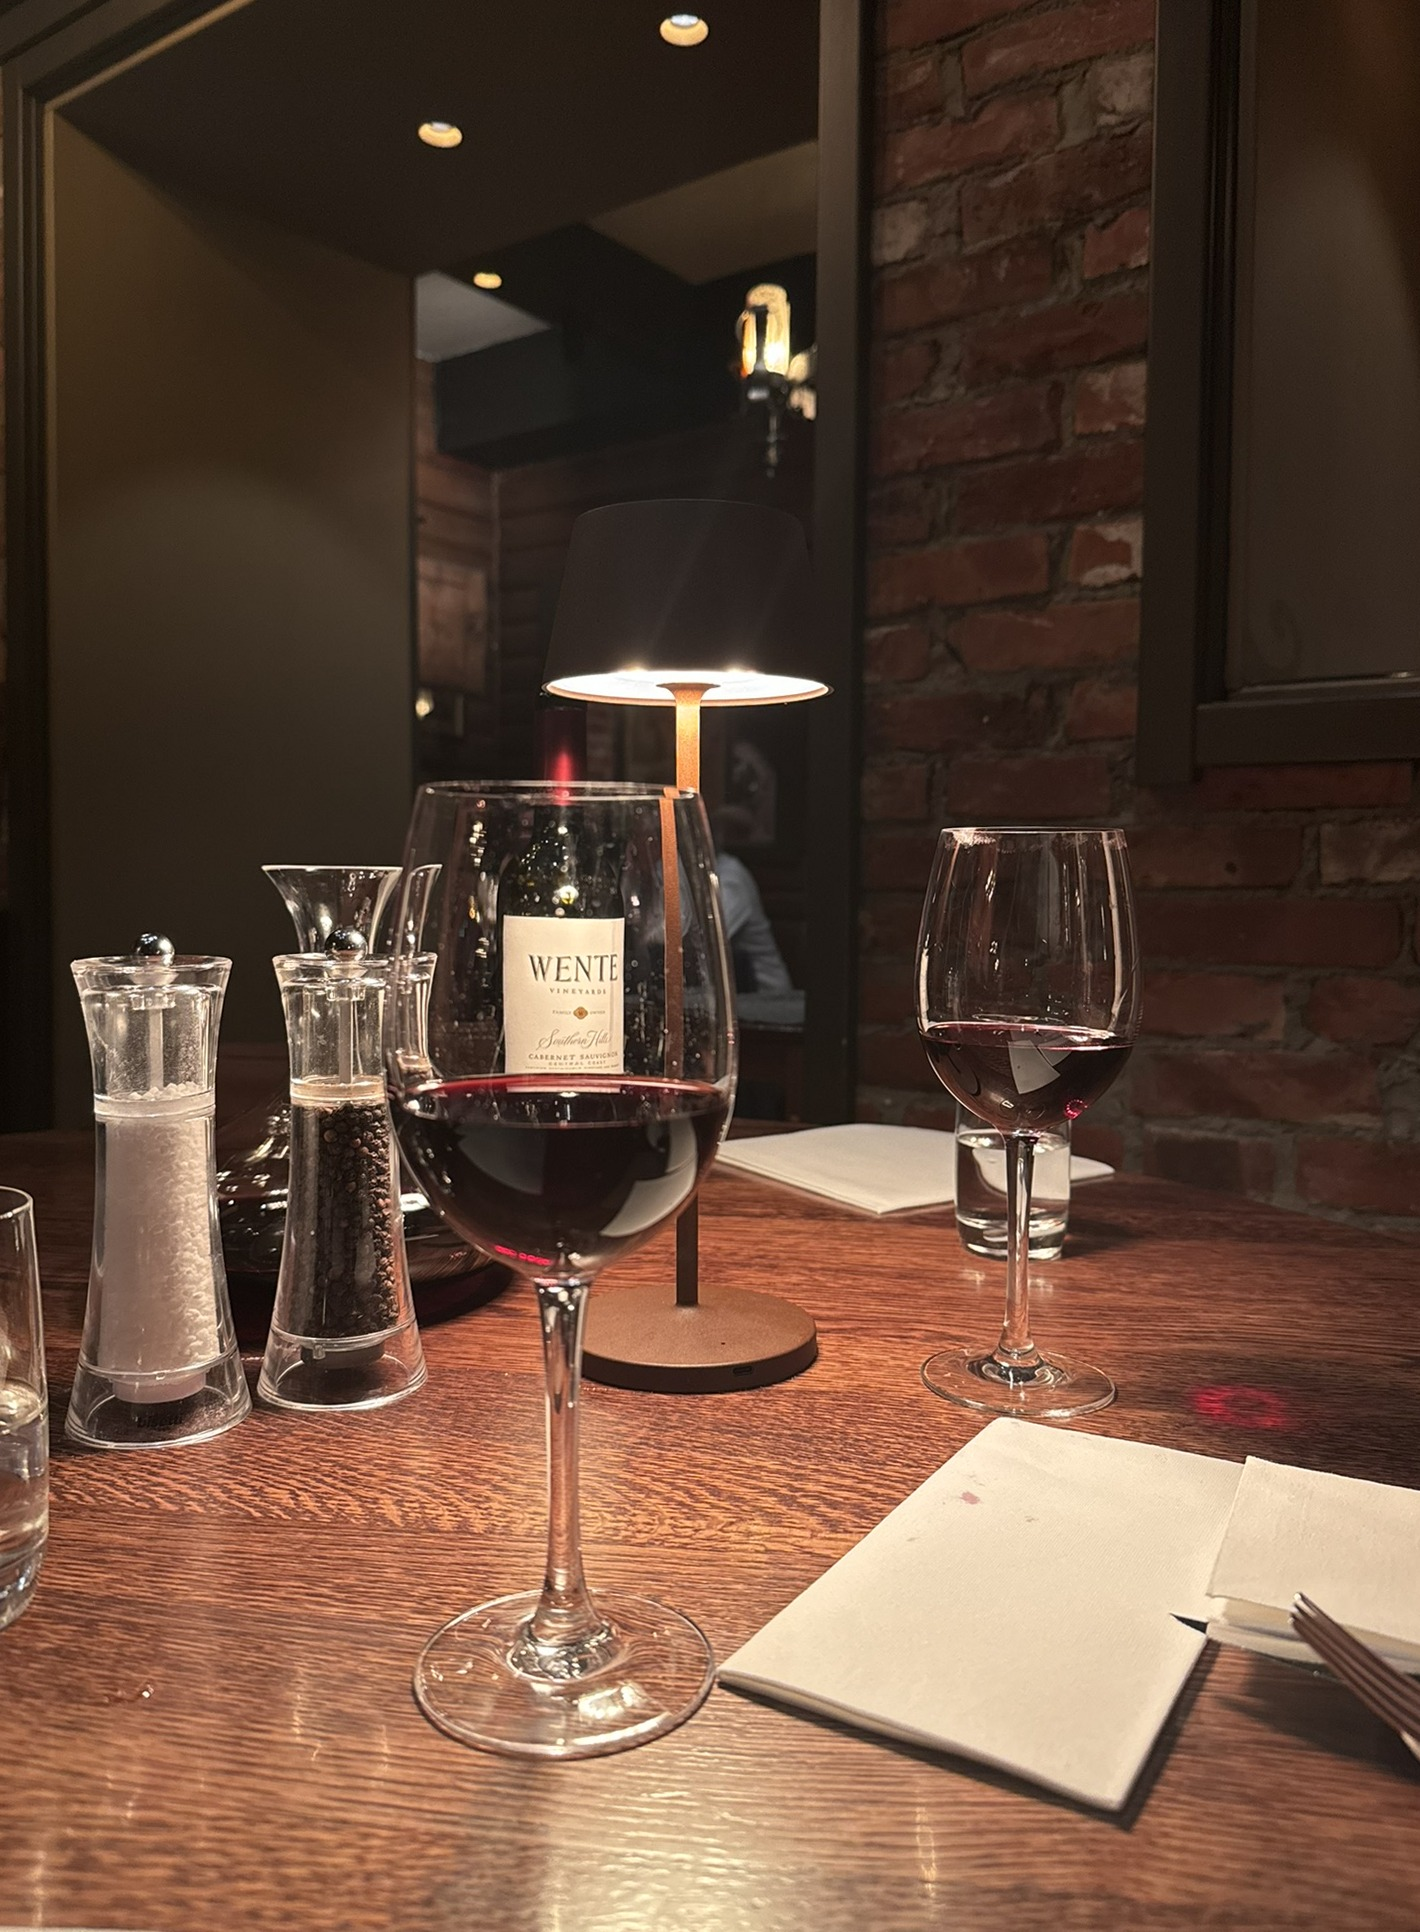
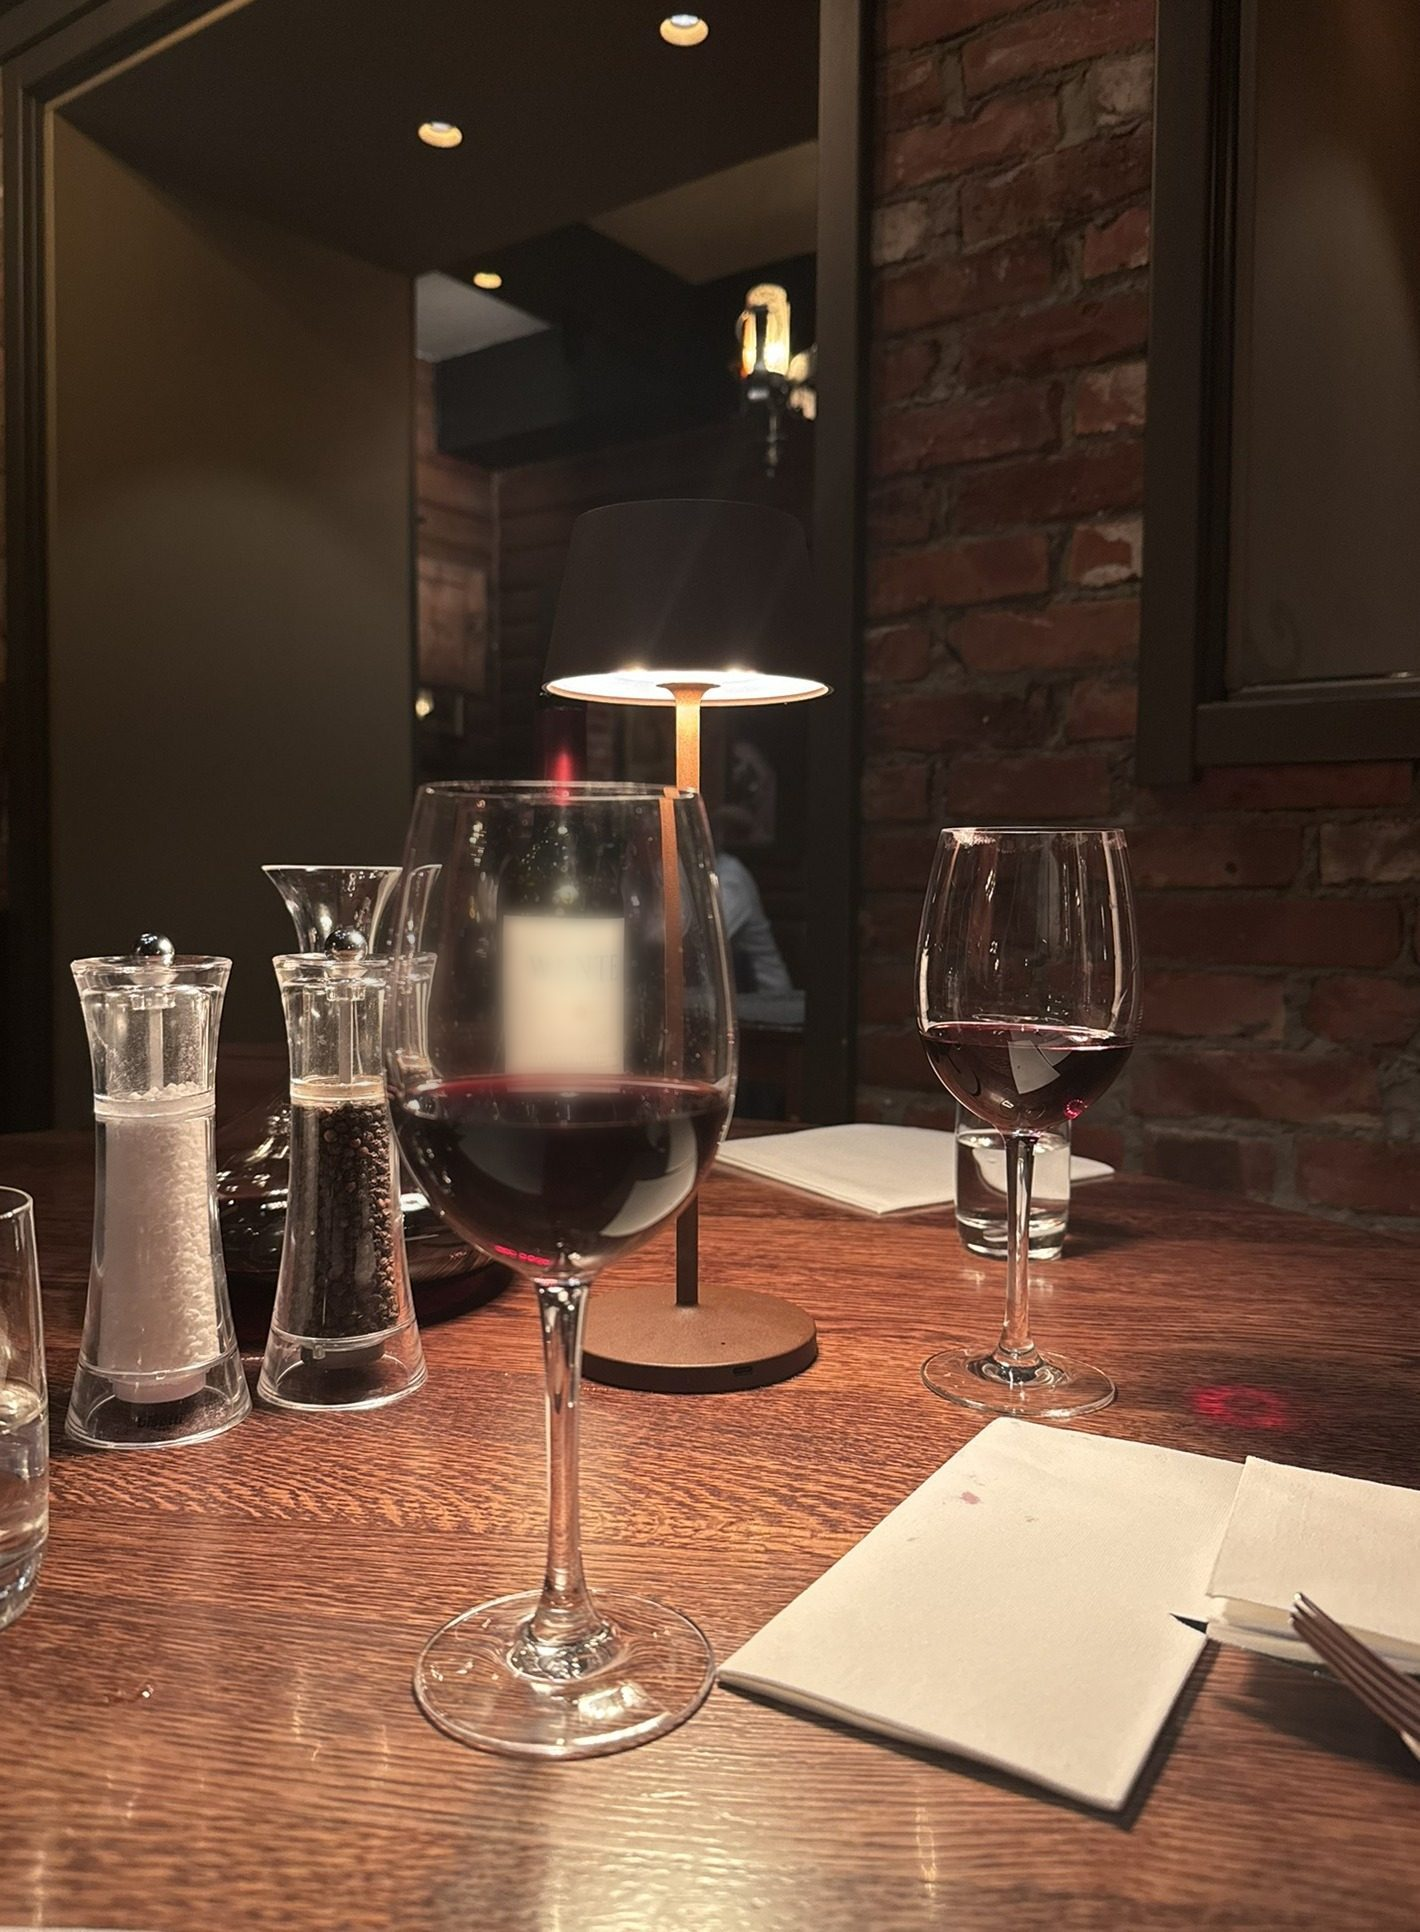
Shrink source photos to 2560px, recentre homepage hero, soften bottle label on tasting page, update wine tourism copy

Changed region(s): [[0.2789, 0.4348, 0.4648, 0.5901]]

diff --git a/app/wine-tourism/page.tsx b/app/wine-tourism/page.tsx
@@ -61,7 +61,7 @@ export default function WineTourismPage() {
               Every partner on this page was chosen for their taste, experience, and value. Each estate sits at the heart of a curated itinerary designed around your travel style.
             </p>
             <p className="font-montserrat text-xs text-cream/60 mt-4 max-w-2xl leading-relaxed">
-              If you have a specific wine region or estate that you'd like to visit, no problem! Let us know and we'll do all the work behind the scenes.
+              If you have already picked a specific wine region or estate that you'd like to visit, no problem! Let us know and we'll do all the work behind the scenes.
             </p>
           </div>
 
